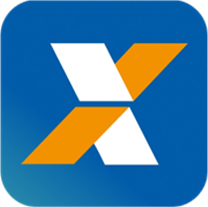
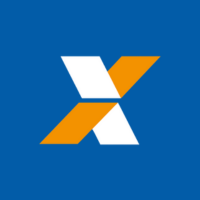
atualizadas as imagens de contas

Changed region(s): [[0.0, 0.0, 1.0, 1.0]]

diff --git a/frontend/src/store/utils/iconeMap.js b/frontend/src/store/utils/iconeMap.js
@@ -10,8 +10,9 @@ import mercadoPago from '../../assets/Mercado-Pago.png'
 import inter from '../../assets/inter.png'
 import stone from '../../assets/stone.png'
 import wise from '../../assets/wise.png'
-import rico from '../../assets/rico.png'
+// import rico from '../../assets/rico.png'
 import cofre from '../../assets/cofre.png'
+import vivo from '../../assets/vivo.png'
 
 const iconeMap = {
     'Nubank': nubank,
@@ -26,8 +27,9 @@ const iconeMap = {
     'Inter': inter,
     'Stone': stone,
     'Wise': wise,
-    'Rico': rico,
-    'Cofre Pessoal': cofre
+    // 'Rico': rico,
+    'Cofre Pessoal': cofre,
+    'Vivo': vivo
 }
 
 export default iconeMap

diff --git a/frontend/src/componentes/BancoSeletor.jsx b/frontend/src/componentes/BancoSeletor.jsx
@@ -83,7 +83,7 @@ export default function BancoSeletor({ open, closeBancoSeletor, selecionarBanco,
                         className={ styles.imagem }
                         onClick={ personalizar }
                     >
-                        <img src={lapis} />
+                        <img src={ lapis } className={ styles.personalizar } />
                         <p>Personalizar</p>
                     </div>
                 </div>

diff --git a/frontend/src/estilos/BancoSeletor.module.css b/frontend/src/estilos/BancoSeletor.module.css
@@ -26,6 +26,11 @@
         & img {
             width: 100%;
             max-width: 150px;
+            border-radius: 11px;
+        }
+
+        & img.personalizar {
+            border-radius: 0;
         }
 
         & h2 {

diff --git a/frontend/src/estilos/CrudConta.module.css b/frontend/src/estilos/CrudConta.module.css
@@ -19,8 +19,6 @@ form h1{
 .formulario img{
     width: 30%;
     background-color: rgb(255, 255, 221);
-    padding: 20px;
-    border: black solid 2px;
     border-radius: 15px;
     cursor: pointer;
 }

diff --git a/frontend/src/estilos/CardConta.module.css b/frontend/src/estilos/CardConta.module.css
@@ -13,6 +13,7 @@
     cursor: pointer;
     & .icone {
         width: var(--tamanho-CardConta);
+        border-radius: 12px;
     }
 
     & .divTexto{
